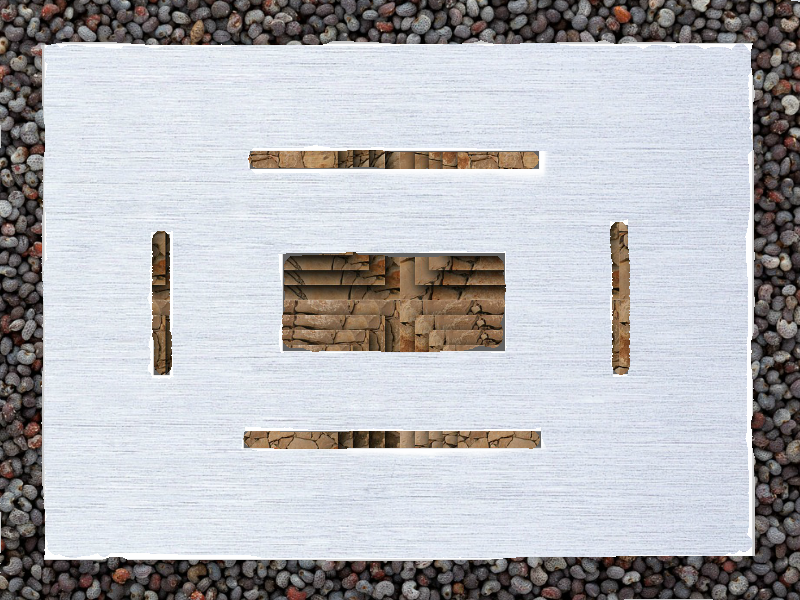
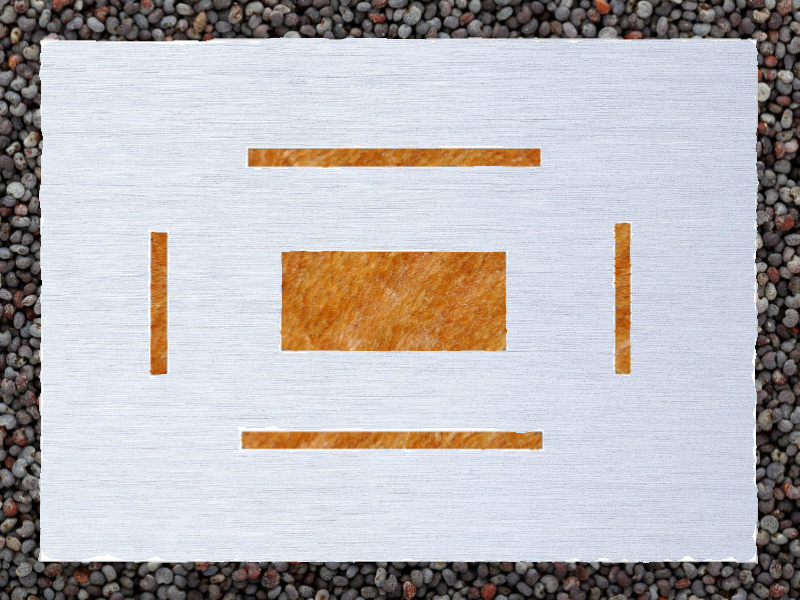
add GE

diff --git a/src/behavior/Ultimate.java b/src/behavior/Ultimate.java
@@ -36,7 +36,7 @@ public class Ultimate {
 			b.vr=0;
 			b.v.x=(float) Math.sin(Math.toRadians(b.r));
 			b.v.y=-(float) Math.cos(Math.toRadians(b.r));
-			b.v.drag(2.5f*Config.MAX_SPEED[b.getType()]);
+			b.v.drag(4f*Config.MAX_SPEED[b.getType()]);
 			//b.pos.plusEqual(b.v.multiply((float) (1.0/Config.FRAME_RATE)));
 			//finish ultimate
 			b.curBehavior = "";		

diff --git a/src/main/Main.java b/src/main/Main.java
@@ -36,7 +36,7 @@ public class Main extends PApplet {
 		Config.canvas = this;
 		boids = new ArrayList<Boid>();	
 		environment=loadImage("../src/environment/GameEnvironment.png");			
-		test=loadImage("../src/environment/grass.png");		
+		test=loadImage("../src/environment/GE.png");		
 		
 		graph = World.createGraphFromImage(this);
 		
